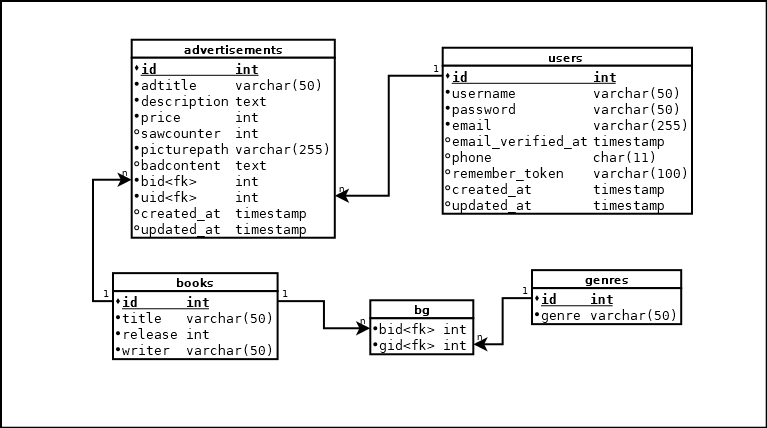
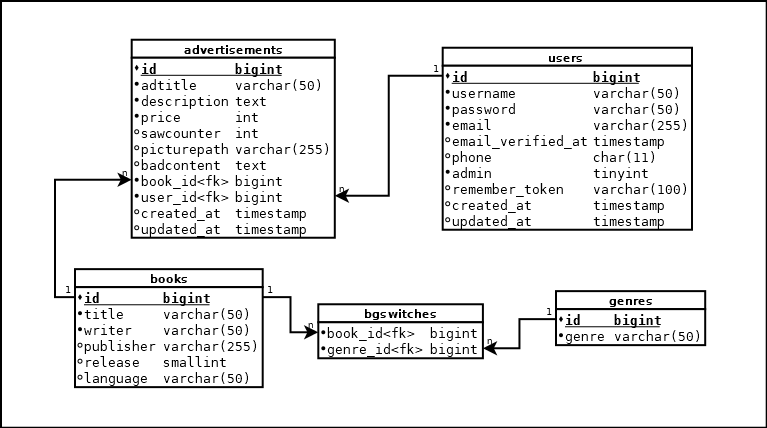
Kisebb javítások elvégezve, README.md kiegészítve, Tesztek exportálva, Adatbázis tervek javítva

diff --git a/api/konyvter/app/Http/Controllers/AdvertisementController.php b/api/konyvter/app/Http/Controllers/AdvertisementController.php
@@ -22,7 +22,7 @@ class AdvertisementController extends BaseController{
             "adtitle" => "required|max:50",
             "description" => "required",
             "price" => "required|integer",
-            'image' => 'required|image:jpeg,png,jpg,gif,svg|max:2048',
+            'image' => 'required|image:jpeg,png,jpg,gif,svg|max:8192',
             "book_id" => "required|integer",
         ]);
         if($validator->fails()){
@@ -36,7 +36,7 @@ class AdvertisementController extends BaseController{
                 "book_id" => $input['book_id'],
                 "user_id" => auth( "sanctum" )->user()->id
             ]);
-            $destination = 'public/images/'.auth( "sanctum" )->user()->username.'/'.$advertisement->id.'/';
+            $destination = 'public/images/'.auth( "sanctum" )->user()->username.'/'.$advertisement->id;
             $path = Storage::put($destination, $input['image']);
             $advertisement->picturepath = Storage::url($path);
             $advertisement->save();
@@ -64,7 +64,7 @@ class AdvertisementController extends BaseController{
                 "adtitle" => "required|max:50",
                 "description" => "required",
                 "price" => "required|integer",
-                'image' => 'required|image:jpeg,png,jpg,gif,svg|max:2048',
+                'image' => 'required|image:jpeg,png,jpg,gif,svg|max:8192',
                 "book_id" => "required|integer",
             ]);
             if($validator->fails()){
@@ -78,7 +78,7 @@ class AdvertisementController extends BaseController{
                     "book_id" => $input['book_id'],
                     "user_id" => $user->id
                 ]);
-                $destination = 'public/images/'.$user->username.'/'.$advertisement->id.'/';
+                $destination = 'public/images/'.$user->username.'/'.$advertisement->id;
                 $files = Storage::files($destination);
                 Storage::delete($files);
                 $path = Storage::put($destination, $input['image']);
@@ -99,7 +99,7 @@ class AdvertisementController extends BaseController{
             return $this->sendError("Nincs ilyen hirdetés");
         }elseif($advertisement->user_id == $user->id || $user->admin){
             try {
-                $destination = 'public/images/'.$user->username.'/'.$advertisement->id.'/';
+                $destination = 'public/images/'.$user->username.'/'.$advertisement->id;
                 Storage::deleteDirectory($destination);
                 Advertisement::destroy($id);
                 return $this->sendResponse([], "A hirdetés törölve");
@@ -201,6 +201,7 @@ class AdvertisementController extends BaseController{
                 $adData = array_intersect($adData, $filterData);
             }
         }
+        $advertisements = null;
         foreach ($adData as $id){
             $advertisement = DB::table('advertisements')
                 ->select('*')

diff --git a/api/konyvter/database/migrations/2022_02_06_333333_create_genres_table.php b/api/konyvter/database/migrations/2022_02_06_333333_create_genres_table.php
@@ -18,16 +18,12 @@ class CreateGenresTable extends Migration
             $table->string('genre', 50)->unique();
         });
         DB::table('genres')->insert(array(
-            'id'=>'1',
-            'genre'=>'Regény'
-        ));
-        DB::table('genres')->insert(array(
-            'id'=>'2',
-            'genre'=>'Fantasy-irodalom'
-        ));
-        DB::table('genres')->insert(array(
-            'id'=>'3',
-            'genre'=>'High fantasy'
+            array('genre'=>'Regény'),
+            array('genre'=>'Fantasy-irodalom'),
+            array('genre'=>'High fantasy'),
+            array('genre'=>'Sci-fi'),
+            array('genre'=>'Filozófia'),
+            array('genre'=>'Disztópikus fikció')
         ));
     }
 

diff --git a/api/konyvter/README.md b/api/konyvter/README.md
@@ -1,9 +1,57 @@
-REST API Indítása
+# konyvter REST API - Szivák Gergő
 
-1.) composer install
-2.) üres adatbázis lérehozása szabadon választott néven
-3.) .env example másolása, a másolat átnevezése .env névre majd az adatbázis beállítása
-4.) php artisan key:generate
-5.) php artisan migrate
-6.) php artisan storage:link
-7.) php artisan serve
+## Indítás
+
+* composer install
+* üres adatbázis lérehozása szabadon választott néven
+* .env example másolása, a másolat átnevezése .env névre majd az adatbázis beállítása
+* php artisan key:generate
+* php artisan migrate
+* php artisan storage:link
+* php artisan serve
+
+### Megjegyzés az indításhoz
+
+php artisan migrate parancsra a táblákon kívül a következők jönnek létre:
+>Létrejön egy admin felhasználó
+
+>Létrejön egy TesztElek nevű felhasználó és a hozzá tartozó hirdetések, a 
+hirdetésekhez tartozó könyvek, valamint a könyvekhez tartózó műfajok kapcsolói. <br /> 
+A TesztElekhez tartozó storage könyvtárában lévő első 3 kép GitHub-ra is felkerül.
+
+>A műfajok tábla teljesen feltöltve jön létre REST API-n keresztül nem módosítható,
+mivel a weboldal kinézetét nagyban befolyásolja
+
+## Végpontok
+
+Végpont | Metódus | Hitelesítés | Siker 
+--- | --- | --- | --- 
+/api/register | POST | nem | 200 OK |
+/api/login | POST | nem | 200 OK |
+/api/logout | POST | igen | 200 OK |
+/api/admin/reportedads | GET | igen/admin | 200 OK |
+/api/admin/users | GET | igen/admin | 200 OK |
+/api/admin/reportedads/{adtitle} | GET | igen/admin | 200 OK |
+/api/admin/users/{username} | GET | igen/admin | 200 OK |
+/api/web/books | GET | nem | 200 OK |
+/api/web/books | POST | igen | 200 OK |
+/api/web/books/{id} | GET | nem | 200 OK |
+/api/web/books/{id} | PUT | igen | 200 OK |
+/api/web/books/{id} | DELETE | igen | 200 OK |
+/api/account/{id?} | PUT | igen | 200 OK |
+/api/account/{id?} | DELETE | igen | 200 OK |
+/api/web/advertisements | GET | nem | 200 OK |
+/api/web/advertisements | POST | igen | 200 OK |
+/api/web/advertisements/{id} | GET | nem | 200 OK |
+/api/web/advertisements/{id} | POST/_method:PUT | igen | 200 OK |
+/api/web/advertisements/{id} | DELETE | igen | 200 OK |
+/api/web/advertisements/filter | POST | nem | 200 OK |
+
+### Megjegyzés a végpontokhoz
+
+>a képek az alábbi végponton érhetők el:
+/storage/images/{username}/{advertisementId}//{imagename}
+
+>/api/web/advertisements/{id} | POST -> ezen az útvonalon a megfelelő működés 
+érdekében fel kell venni a következő paramétert: "name":"_method","value":"PUT", 
+ugyanis a multipart csak a GET és POST metódust támogatja
